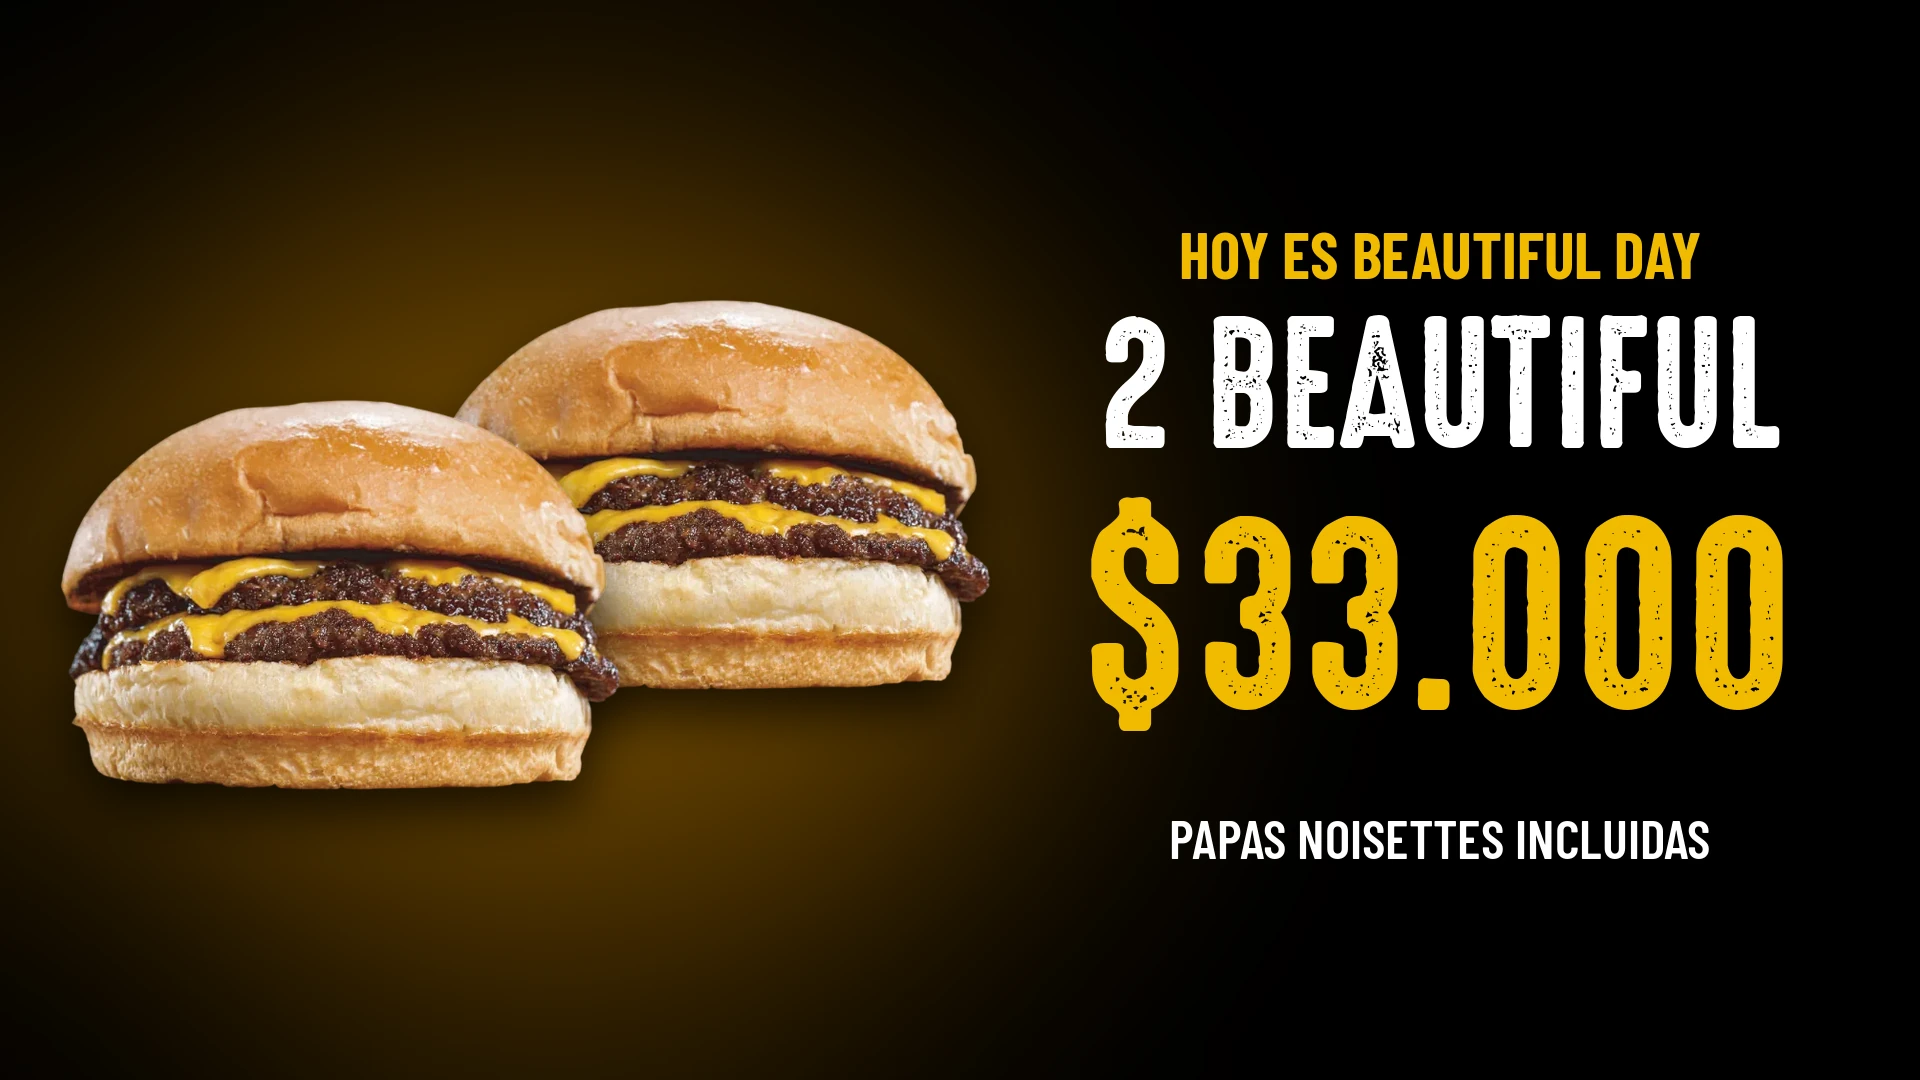
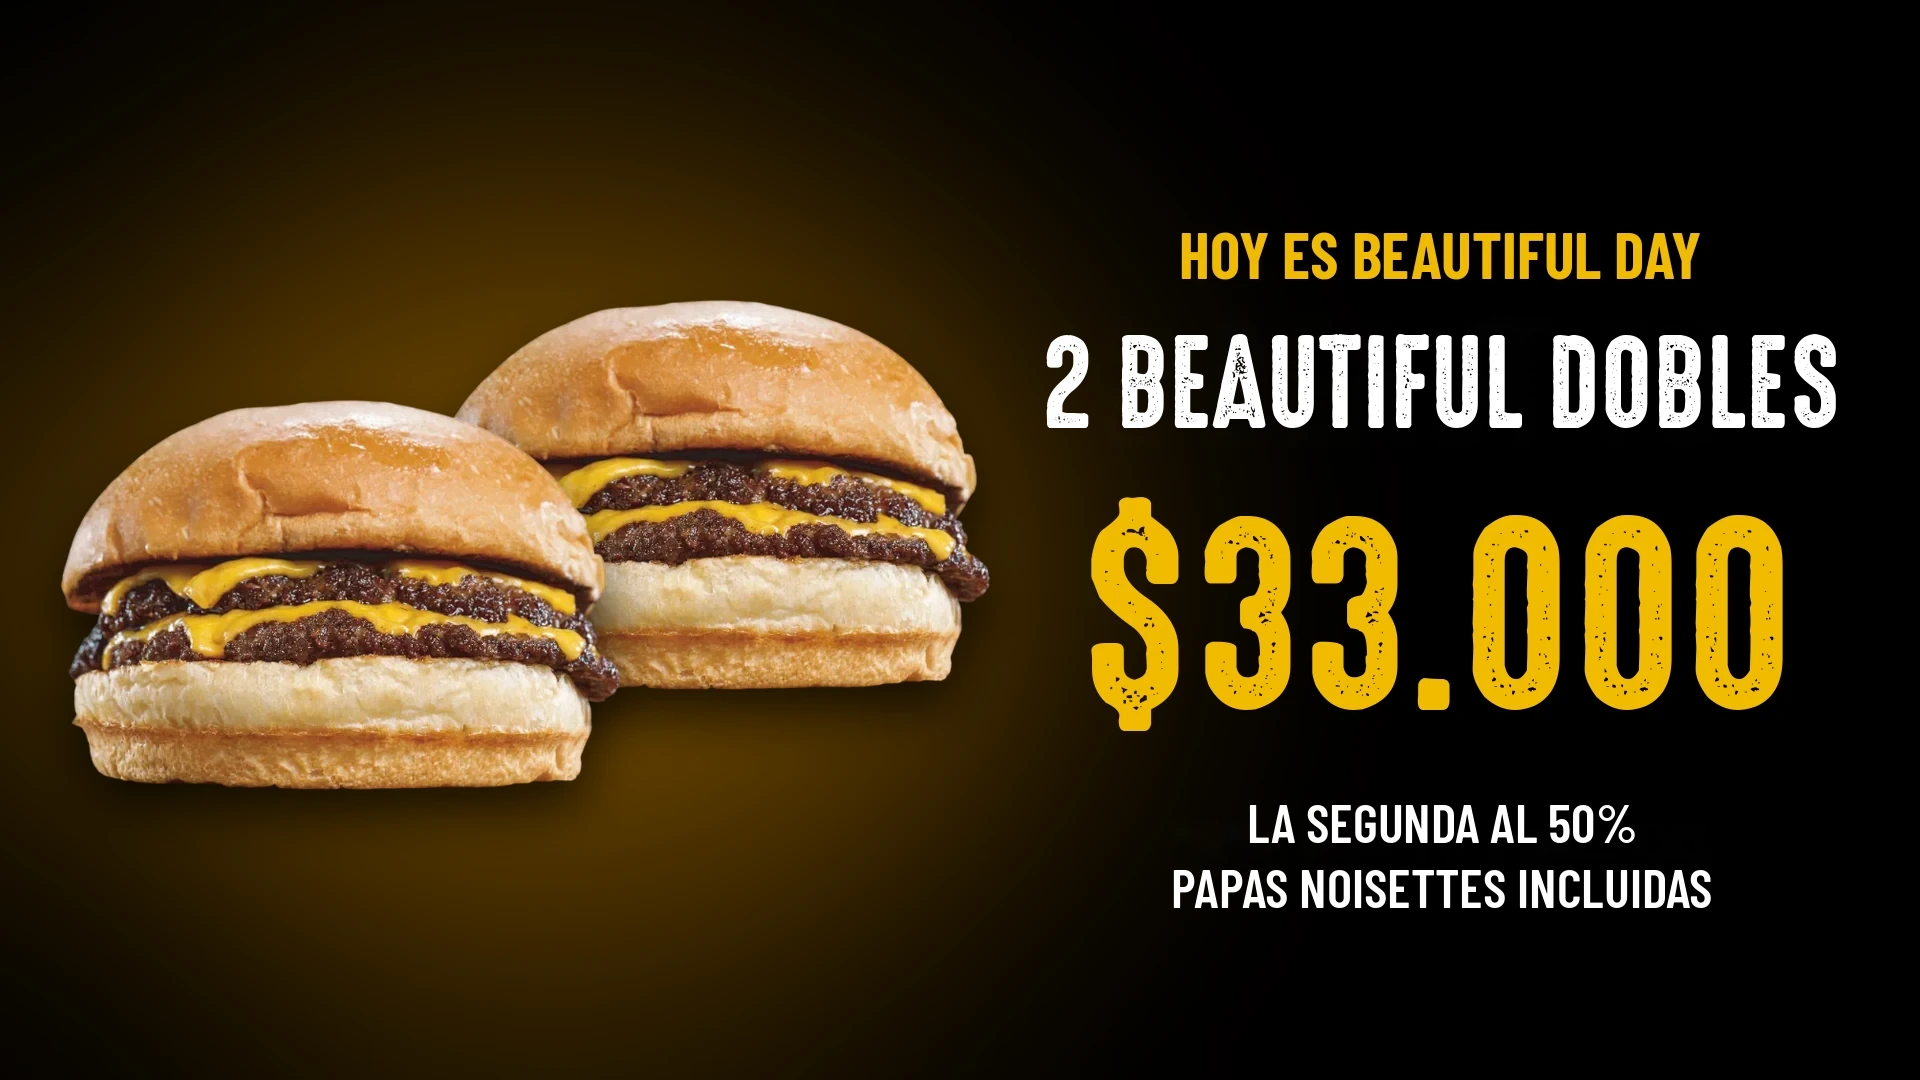
Beautiful Day: aclarar que son Beautiful dobles y la segunda al 50% (pop-up, barra, imagen de Google)
Claude-Session: https://claude.ai/code/session_01ALsEubECFDDddqgENhXexb

Changed region(s): [[0.5312, 0.275, 0.9688, 0.4278], [0.5938, 0.7333, 0.9062, 0.8556]]

diff --git a/index.html b/index.html
@@ -2832,18 +2832,18 @@ function enviarFormulario() {
 if('IntersectionObserver' in window){var o=new IntersectionObserver(function(e){if(e[0].isIntersecting){go();o.disconnect();}},{rootMargin:'200px'});o.observe(f);}else{window.addEventListener('load',go);}})();
 </script>
 <!-- BEAUTIFUL DAY: pop-up y barra, solo el sábado 28/11/2026 (hora de Argentina). Vista previa cualquier día: agregar ?beautiful=1 a la URL -->
-<div class="bd-modal" id="bdModal" role="dialog" aria-modal="true" aria-label="Beautiful Day: 2 Beautiful por $33.000">
+<div class="bd-modal" id="bdModal" role="dialog" aria-modal="true" aria-label="Beautiful Day: 2 Beautiful dobles por $33.000, la segunda al 50%">
   <button class="bd-close" id="bdClose" type="button" aria-label="Cerrar">×</button>
   <a class="bd-pic" href="https://menu.fu.do/shivos" target="_blank" rel="noopener">
     <picture>
       <source id="bdSrcD" media="(orientation: landscape)">
-      <img id="bdImg" alt="Beautiful Day, hoy: 2 Beautiful por $33.000 con papas noisettes incluidas">
+      <img id="bdImg" alt="Beautiful Day, hoy: 2 Beautiful dobles por $33.000, la segunda al 50%, con papas noisettes incluidas">
     </picture>
   </a>
   <a class="bd-cta" href="https://menu.fu.do/shivos" target="_blank" rel="noopener">PEDÍ AHORA →</a>
 </div>
 <div class="bd-bar" id="bdBar" role="region" aria-label="Beautiful Day">
-  <div class="bd-txt">HOY ES BEAUTIFUL DAY: 2 BEAUTIFUL POR $33.000<small>Papas noisettes incluidas</small></div>
+  <div class="bd-txt">HOY ES BEAUTIFUL DAY: 2 BEAUTIFUL DOBLES POR $33.000<small>La segunda al 50% · Papas noisettes incluidas</small></div>
   <a class="bd-btn" href="https://menu.fu.do/shivos" target="_blank" rel="noopener">PEDÍ AHORA →</a>
   <button class="bd-x" id="bdX" type="button" aria-label="Cerrar">×</button>
 </div>
